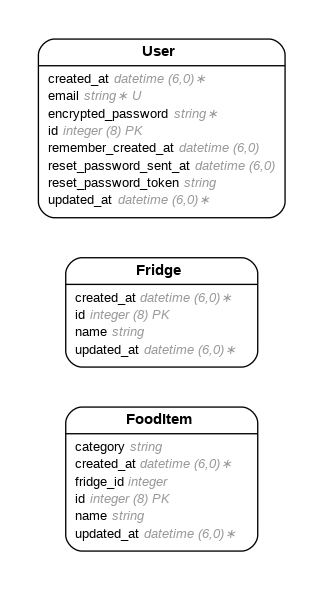
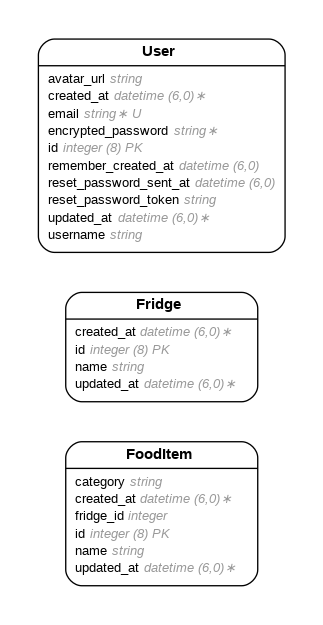
log in

Changed region(s): [[0.0929, 0.061, 0.8978, 0.9458], [0.8669, 0.3356, 0.8978, 0.3966]]

diff --git a/db/migrate/20250531212637_add_devise_to_users.rb b/db/migrate/20250531212637_add_devise_to_users.rb
@@ -1,0 +1,53 @@
+# frozen_string_literal: true
+
+class AddDeviseToUsers < ActiveRecord::Migration[7.1]
+  def self.up
+    change_table :users do |t|
+      ## Database authenticatable
+      # t.string :email,              null: false, default: ""
+      # t.string :encrypted_password, null: false, default: ""
+
+      ## Recoverable
+      # t.string   :reset_password_token
+      # t.datetime :reset_password_sent_at
+
+      ## Rememberable
+      # t.datetime :remember_created_at
+
+      ## Trackable
+      # t.integer  :sign_in_count, default: 0, null: false
+      # t.datetime :current_sign_in_at
+      # t.datetime :last_sign_in_at
+      # t.string   :current_sign_in_ip
+      # t.string   :last_sign_in_ip
+
+      ## Confirmable
+      # t.string   :confirmation_token
+      # t.datetime :confirmed_at
+      # t.datetime :confirmation_sent_at
+      # t.string   :unconfirmed_email # Only if using reconfirmable
+
+      ## Lockable
+      # t.integer  :failed_attempts, default: 0, null: false # Only if lock strategy is :failed_attempts
+      # t.string   :unlock_token # Only if unlock strategy is :email or :both
+      # t.datetime :locked_at
+
+      t.string :username
+      t.string :avatar_url
+
+      # Uncomment below if timestamps were not included in your original model.
+      # t.timestamps null: false
+    end
+
+    # add_index :users, :email,                unique: true
+    # add_index :users, :reset_password_token, unique: true
+    # add_index :users, :confirmation_token,   unique: true
+    # add_index :users, :unlock_token,         unique: true
+  end
+
+  def self.down
+    # By default, we don't want to make any assumption about how to roll back a migration when your
+    # model already existed. Please edit below which fields you would like to remove in this migration.
+    raise ActiveRecord::IrreversibleMigration
+  end
+end

diff --git a/config/initializers/devise.rb b/config/initializers/devise.rb
@@ -14,7 +14,7 @@ Devise.setup do |config|
   # confirmation, reset password and unlock tokens in the database.
   # Devise will use the `secret_key_base` as its `secret_key`
   # by default. You can change it below and use your own secret key.
[2 lines of base64/hex data omitted]
 
   # ==> Controller configuration
   # Configure the parent class to the devise controllers.
@@ -126,7 +126,7 @@ Devise.setup do |config|
   config.stretches = Rails.env.test? ? 1 : 12
 
   # Set up a pepper to generate the hashed password.
[2 lines of base64/hex data omitted]
 
   # Send a notification to the original email when the user's email is changed.
   # config.send_email_changed_notification = false
@@ -266,7 +266,7 @@ Devise.setup do |config|
   # config.navigational_formats = ['*/*', :html, :turbo_stream]
 
   # The default HTTP method used to sign out a resource. Default is :delete.
-  config.sign_out_via = :delete
+  config.sign_out_via = :get
 
   # ==> OmniAuth
   # Add a new OmniAuth provider. Check the wiki for more information on setting

diff --git a/db/schema.rb b/db/schema.rb
@@ -10,7 +10,7 @@
 #
 # It's strongly recommended that you check this file into your version control system.
 
-ActiveRecord::Schema[7.1].define(version: 2025_05_30_214404) do
+ActiveRecord::Schema[7.1].define(version: 2025_05_31_212637) do
   # These are extensions that must be enabled in order to support this database
   enable_extension "plpgsql"
 
@@ -36,6 +36,8 @@ ActiveRecord::Schema[7.1].define(version: 2025_05_30_214404) do
     t.datetime "remember_created_at"
     t.datetime "created_at", null: false
     t.datetime "updated_at", null: false
+    t.string "username"
+    t.string "avatar_url"
     t.index ["email"], name: "index_users_on_email", unique: true
     t.index ["reset_password_token"], name: "index_users_on_reset_password_token", unique: true
   end

diff --git a/app/models/user.rb b/app/models/user.rb
@@ -3,11 +3,13 @@
 # Table name: users
 #
 #  id                     :bigint           not null, primary key
+#  avatar_url             :string
 #  email                  :string           default(""), not null
 #  encrypted_password     :string           default(""), not null
 #  remember_created_at    :datetime
 #  reset_password_sent_at :datetime
 #  reset_password_token   :string
+#  username               :string
 #  created_at             :datetime         not null
 #  updated_at             :datetime         not null
 #

diff --git a/app/controllers/application_controller.rb b/app/controllers/application_controller.rb
@@ -1,3 +1,4 @@
 class ApplicationController < ActionController::Base
   skip_forgery_protection
+  before_action :authenticate_user!
 end
